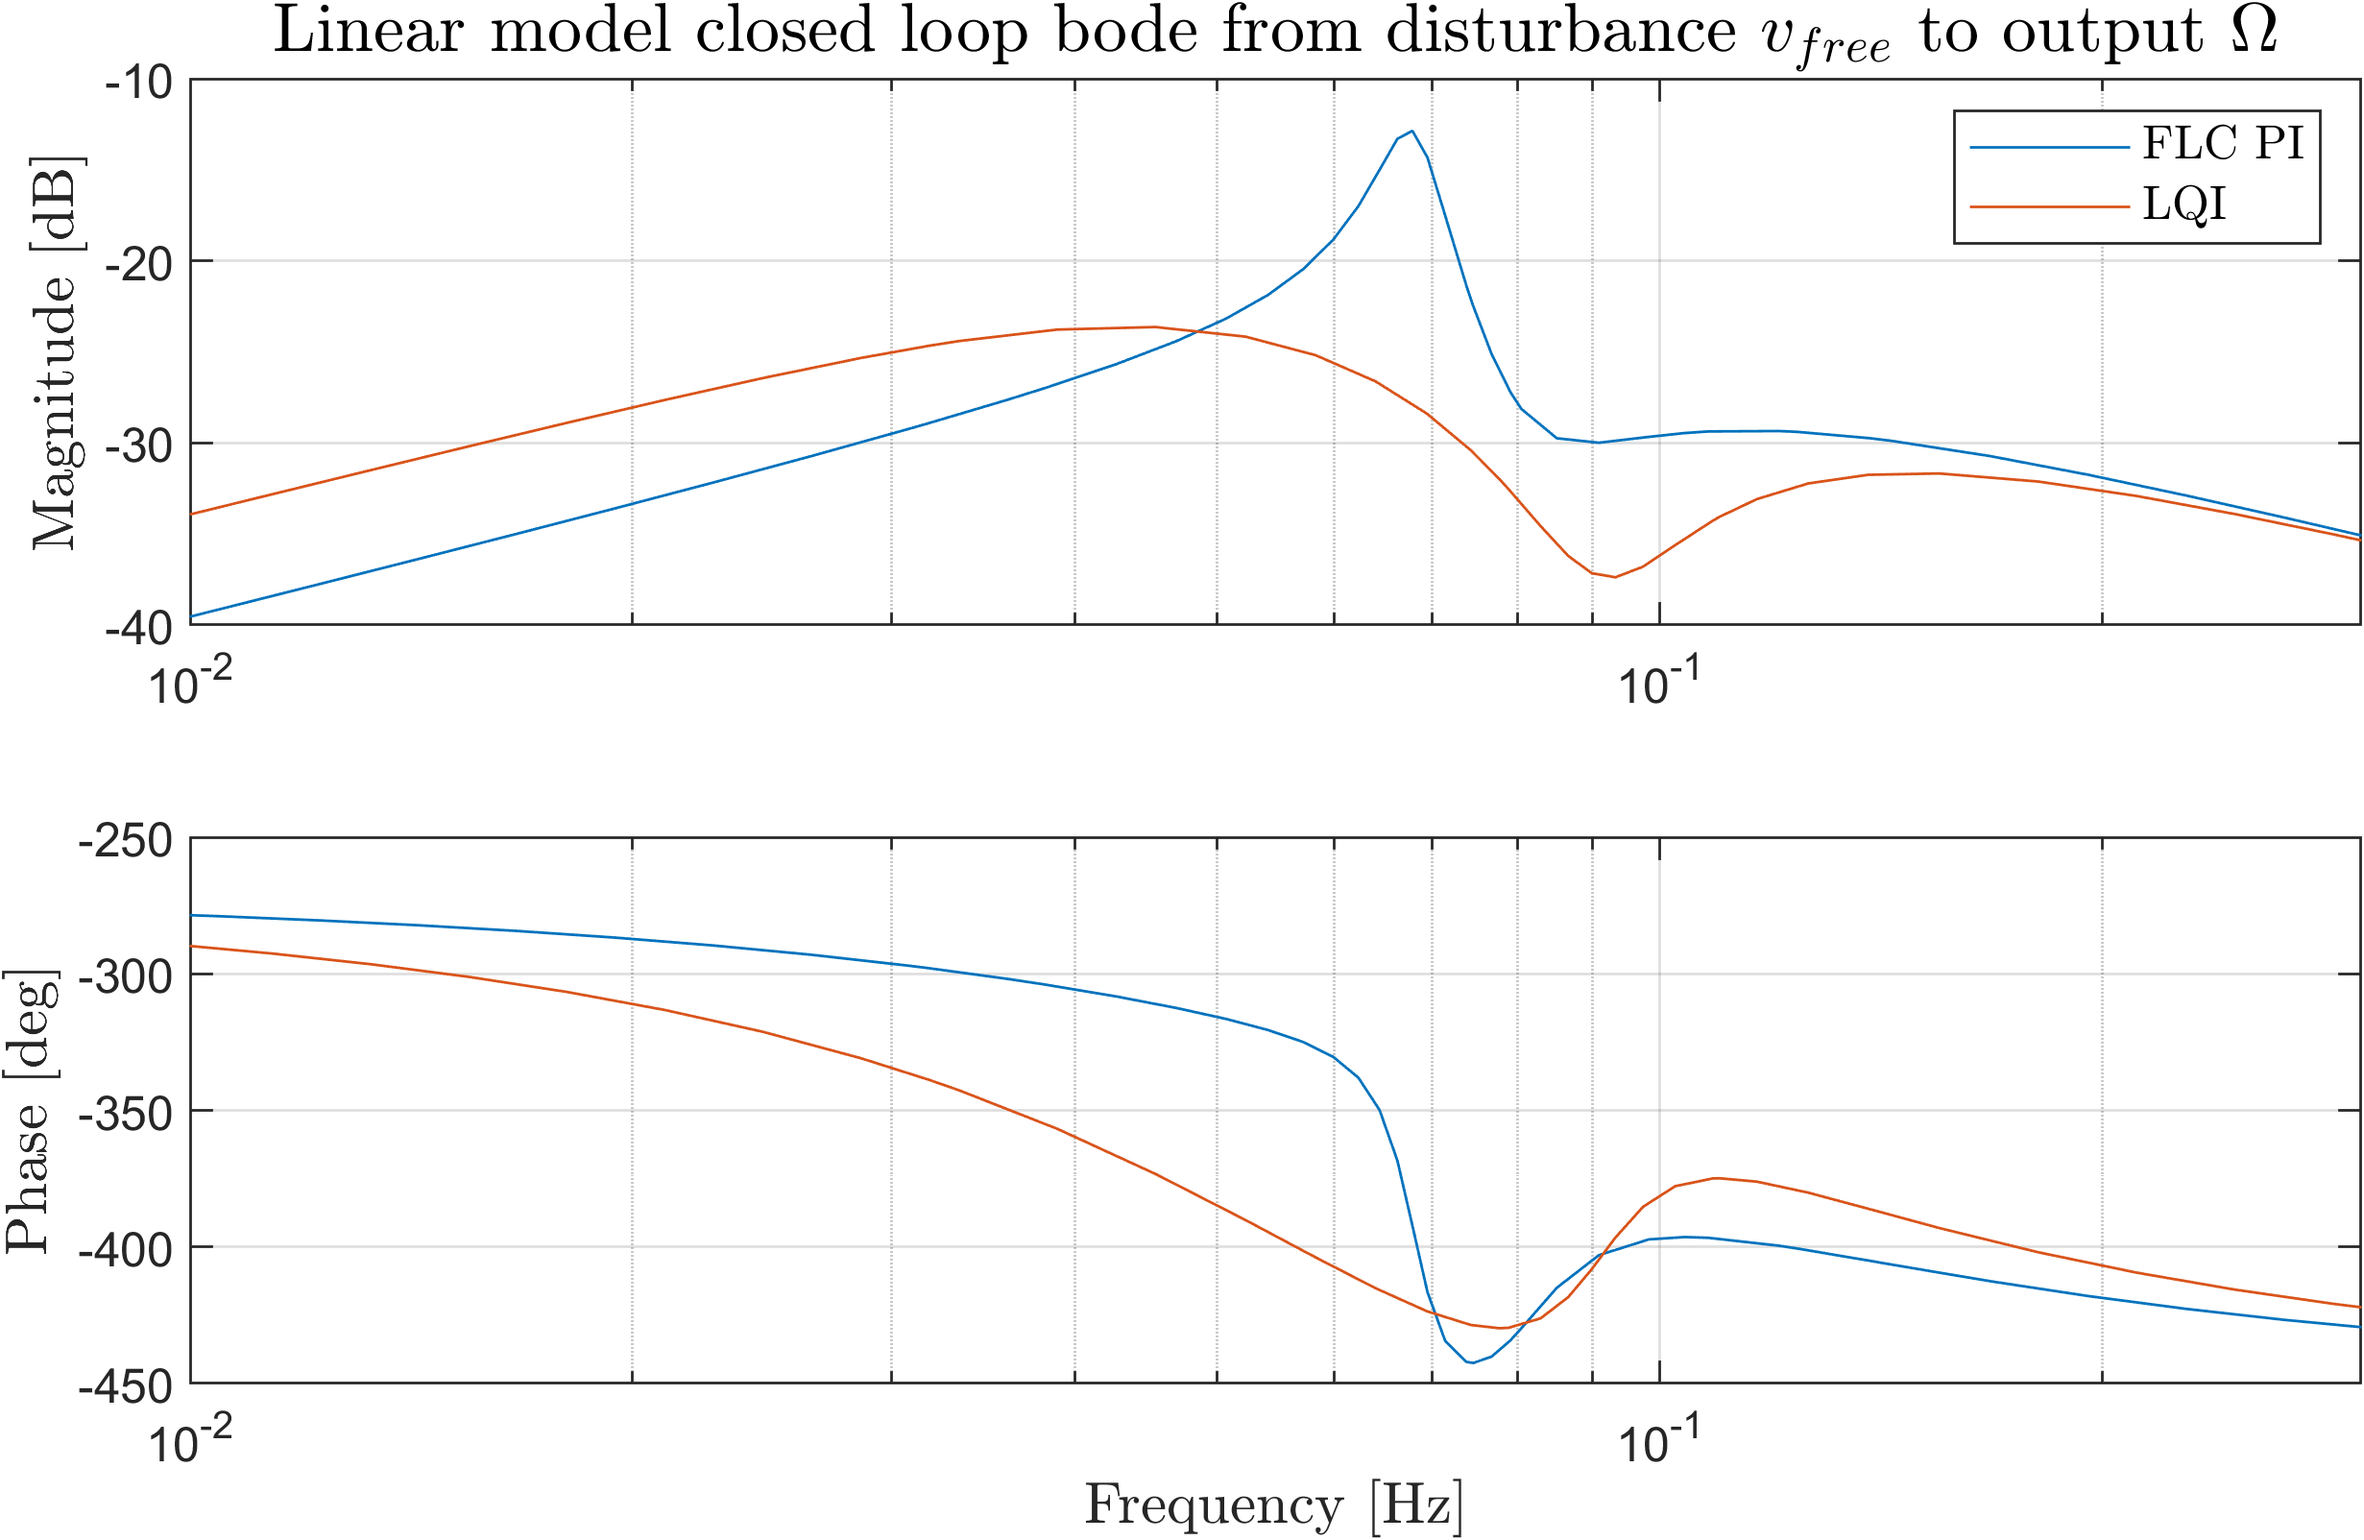
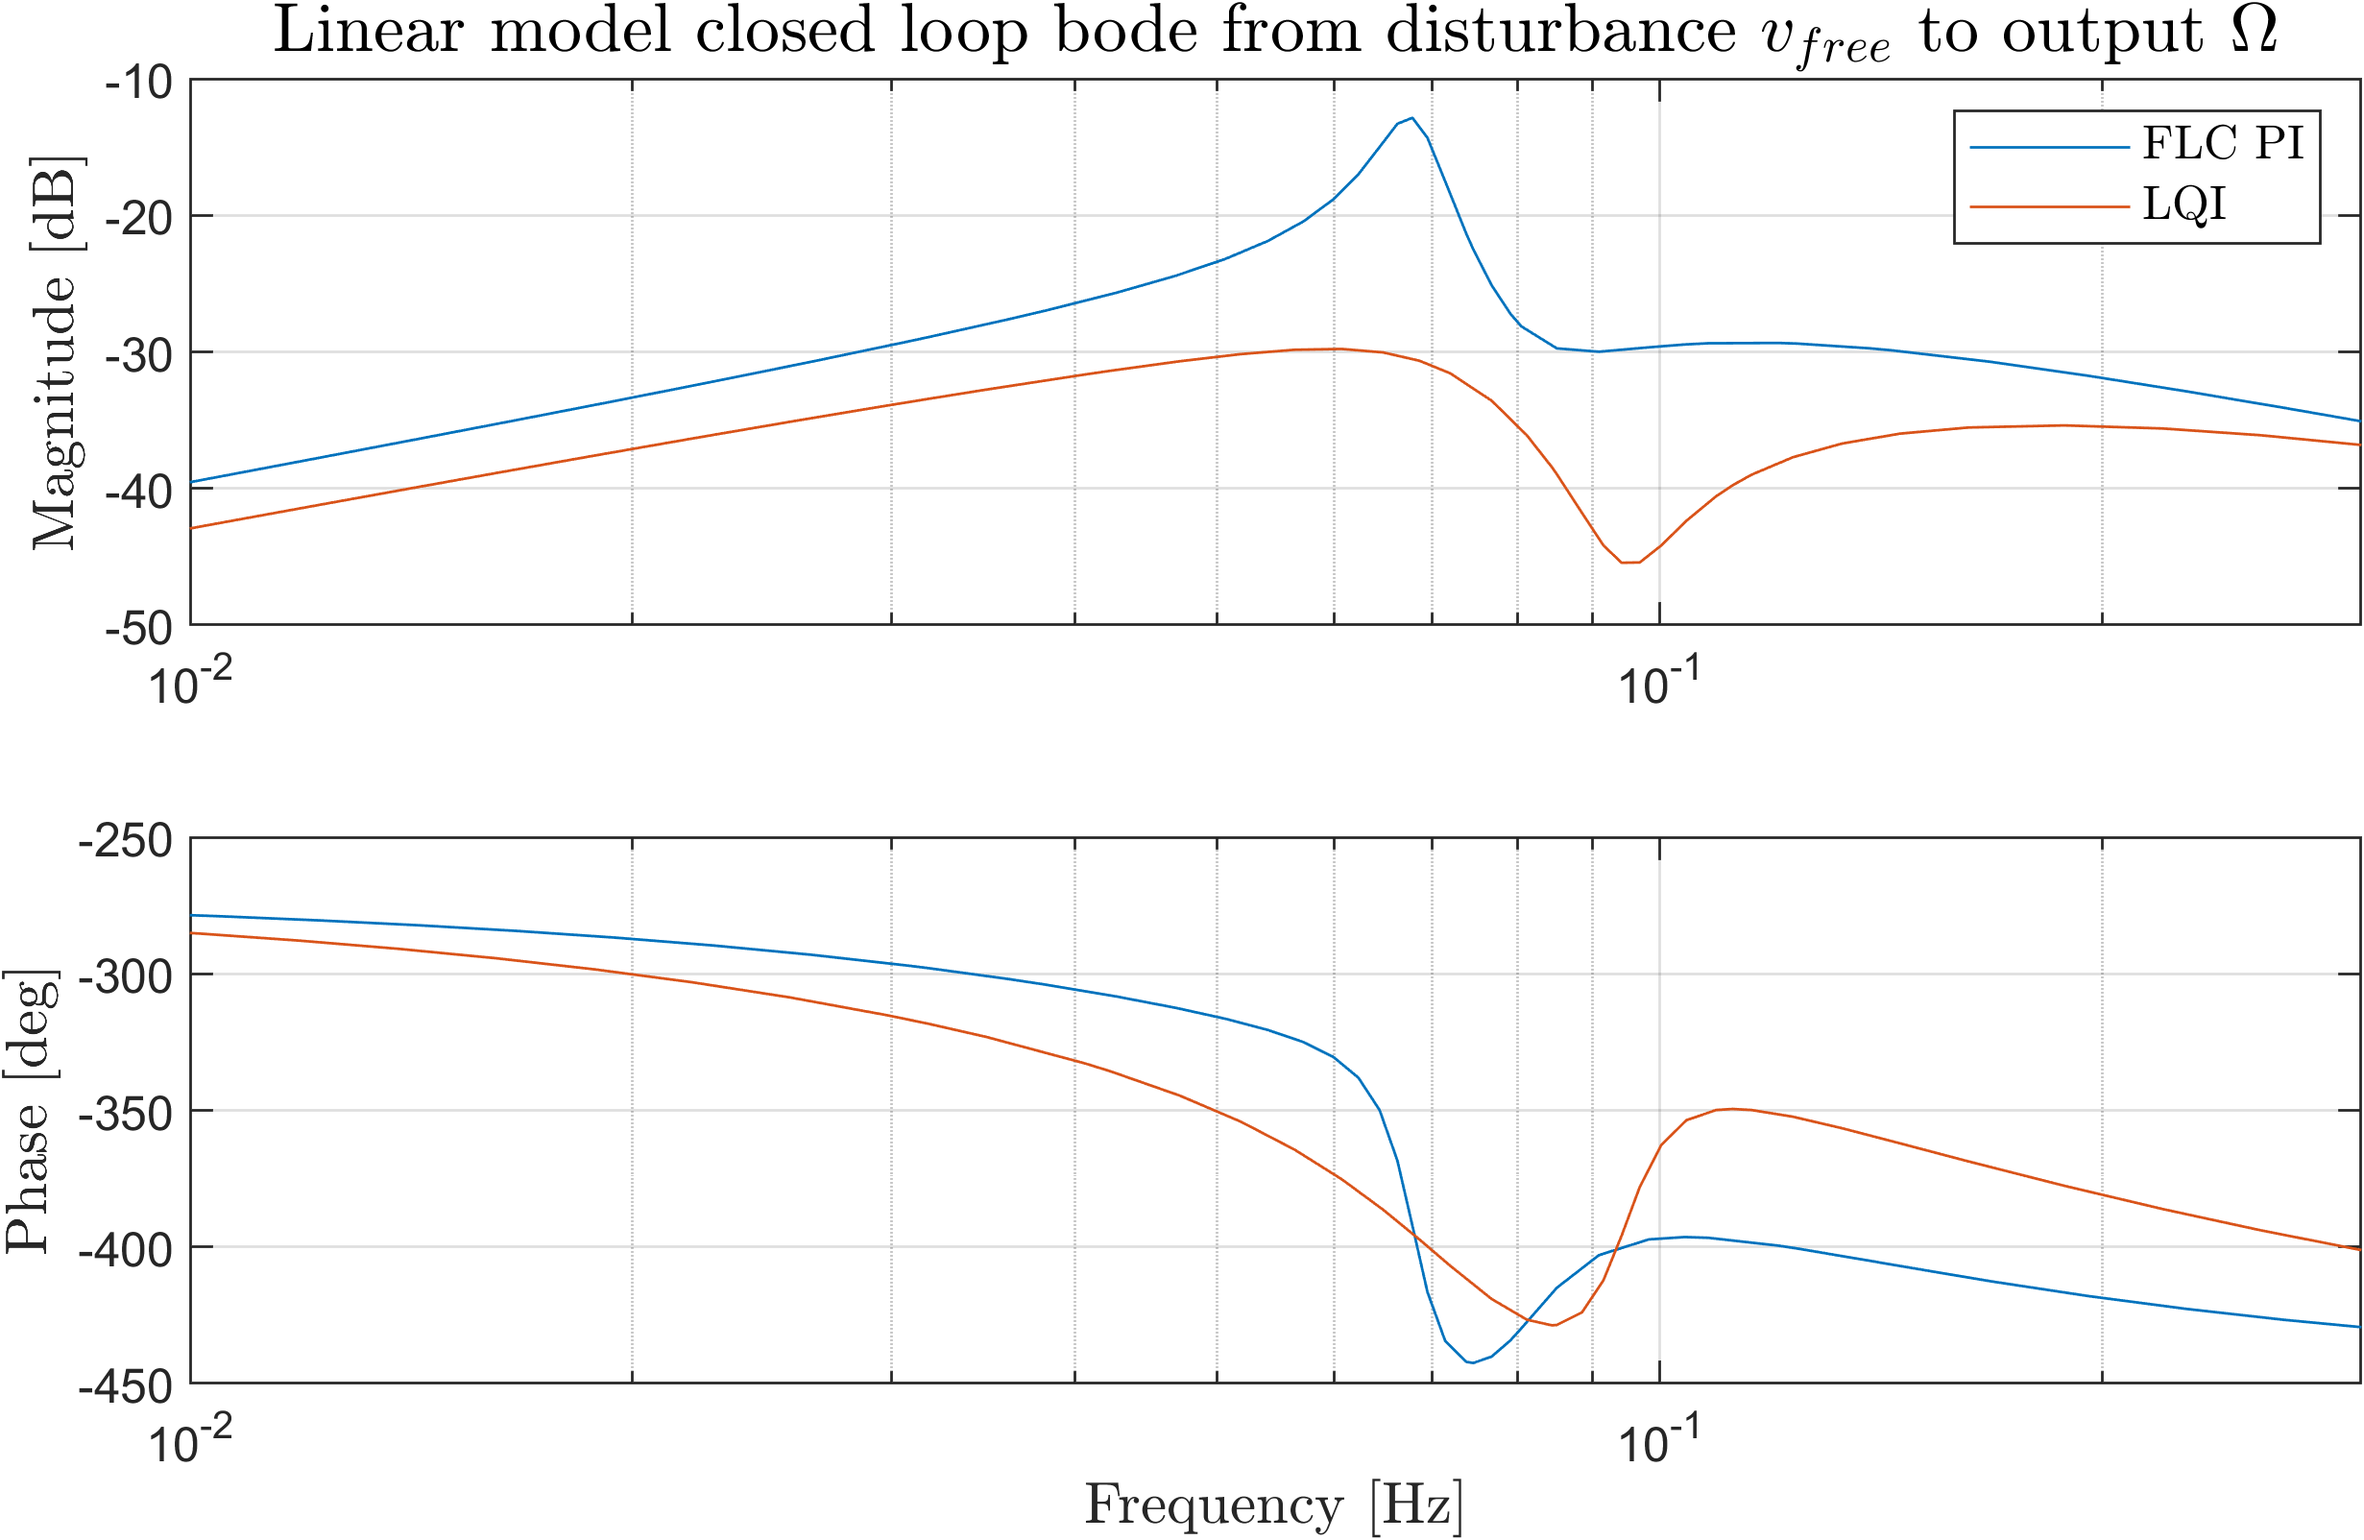
Some changes. Who knows what. A bit in several sections

diff --git a/Chapters/Modelling.tex b/Chapters/Modelling.tex
@@ -280,8 +280,7 @@ Outputs are defined from the available sensors and if the outputs are equal to t
 \end{figure}
 
 \subsubsection{Evaluation of model fit} \label{sec:lin_fit_eval}
-In the tower fore-aft movement component section in \cref{sec:comp_foreaft_mod} it was explained that a fitting process was necessary to find the parameters which gave the best linear fit. In the appendix in \cref{sec:app_mod_foreaft_fitting} all results from said process are presented and a few of the results are also shown here in \cref{fig:wref-vy_16}. In \cref{fig:sysid_wref-vy_16} the frequency response from VTS is seen when a test sine curve is applied to the pitch reference. The frequency response is plotted from the pitch reference to the surge direction velocity at nacelle height.
-
+In the tower fore-aft movement component section in \cref{sec:comp_foreaft_mod} it was explained that a fitting process was necessary to find the parameters which gave the best linear fit. In the appendix in \cref{sec:app_mod_foreaft_fitting} all results from said process are presented and a few of the results are also shown here in \cref{fig:wref-vy_16}. In \cref{fig:sysid_wref-vy_16} the frequency response from VTS is seen when a test sine is applied to the pitch reference. The frequency response is plotted from the pitch reference to the surge direction velocity at nacelle height. In \cref{fig:wtlin_wref-vy_16} a bode plot of the linear model is seen from the pitch reference to the surge direction velocity. Black lines are plotted in the linear model bode plot to aid in assessing the fit accuracy. The intersection of the lines are located at the peak of the magnitude of the VTS plot. In the phase plot they are located right before and after the sharp dip in the phase. It is observed that the magnitude of the linear model is around 5-6 dB lower than the VTS model. The phase is furthermore observed almost passing through the cross sections of the black lines. While the fit is not perfect is is deemed good enough to continue.
 \begin{figure*}[ht]
 	\centering
 	
@@ -323,21 +322,20 @@ The resulting linear state space system derived at the 16 m/s operating point be
 
 \smallskip
 \noindent with the output
-
 \begin{equation}\label{eq:y}
-	\begin{bmatrix} \omega \\ 
-					p_y \\
-					v_y \end{bmatrix} = 
-	\begin{bmatrix}	0  	& 0 	& 0  	& 365.9290	\\
-					0  	& 1  	& 0 	& 0			\\
-					0	& 0 	& 1 	& 0 \end{bmatrix}
+	\begin{bmatrix} p_y \\
+					v_y \\
+					\omega \end{bmatrix} = 
+	\begin{bmatrix}	0  	& 1 	& 0  	& 0	\\
+					0  	& 0  	& 1 	& 0			\\
+					0	& 0 	& 0 	& 365.93 \end{bmatrix}
 	\begin{bmatrix} \theta_{ref} \\
 					p_y \\ 
 					v_y \\
 					\Omega \end{bmatrix}
 \end{equation}
 
-In \cref{sec:linear_model} $ P_{ref} $ is observed to not affect any of the states. This is because a PLC controller component has not been included in the linear model.
+
 
 \subsubsection{System stability, controllability and observability}
 A linear system model with the FLC controller has now been derived at an operating point. Before moving further some key evaluations should be made. Firstly stability is checked and secondly controllability and observability.

diff --git a/Chapters/Documentation_tj02.tex b/Chapters/Documentation_tj02.tex
@@ -40,7 +40,7 @@ In \cref{fig:tj02_uykf_to_pi1} a plot containing the surge direction velocity, g
 
 As expected the generator speed is almost exactly 180 degrees phase shifted with regards to the surge velocity. When the turbine moves backwards a lower wind speed is observed by the rotor which results in less power being transferred from the wind to the rotor torque, yielding a lower rotor speed.
 
-The fore-aft oscillation period is observed to be around 30 seconds. When looking at the 16 m/s plot the power reference of 8 MW is tracked without issues due to the wind speeds being well inside the FLC region. While the wind speed observed by the rotor sees dips due to the fore-aft motion of the same size as the 14 m/s plot it does not enter PLC. The turbine is tracking the power reference just fine but the constant rotor speed reference of 400 rpm is tracked extremely poorly and sees oscillations with an amplitude of around 40 rpm.
+The fore-aft oscillation period is observed to be around 30 seconds. When looking at the 16 m/s plot the power reference of 8 MW is tracked without issues due to the wind speeds being well inside the FLC region. While the wind speed observed by the rotor sees dips due to the fore-aft motion of the same size as the 14 m/s plot it does not enter PLC. The turbine is tracking the power reference just fine but the constant rotor speed reference of 400 rpm is tracked extremely poorly and sees oscillations with an amplitude of around 40 rpm. Furthermore when observing the fore-aft velocity in the zoomed-in plot smaller oscillations are observed. The frequency can be derived to be around 0.45 Hz which corresponds well with the floating second eigenfrequency (the tower eigenfrequency). This shows that as the turbine is moving back and forth with the slow first eigenfrequency oscillation the tower furthermore oscillates with it's own frequency at the same time.
 \begin{figure}[ht]
 	\centering
 	\includegraphics[width=0.8\linewidth]{Graphics/TestResults/tj02/uykf_omgen_pi1.png}

diff --git a/Chapters/ControllerDesign.tex b/Chapters/ControllerDesign.tex
@@ -57,14 +57,17 @@ A linear quadratic integrator (LQI) controller is obtained when the integrator-a
 
 
 \subsection{The controller} \label{sec:ctrl_thecontroller}
-In the preceding sections the LQR and LQI controllers were explained and we are therefore ready to make the LQI controller. Firstly the FLC controller is removed from the system such that the input to the system is $ thRef $ in stead of $ wRef $. Stability and controllability are checked and the system is both stable and controllable. The \textit{lqr()} matlab function is used with the integrator-augmented system yielding the controller gains:
+In the preceding sections the LQR and LQI controllers were explained and we are therefore ready to make the LQI controller. Firstly the FLC controller is removed from the system such that the input to the system is the pitch reference $ thRef $ in stead of $ wRef $. Stability and controllability are checked and the system is both stable and controllable. The \textit{lqr()} matlab function is used with the integrator-augmented system yielding the controller gains:
 \begin{equation}\label{eq:lqi_K}
-	K = \begin{bmatrix} K_1 & K_2	\end{bmatrix}
+	K = \begin{bmatrix} -3.00 & -3.20 & -59.13 & -4.78 \end{bmatrix}
 \end{equation}
 when the $ R $ \text{and} $ Q $ matrices are defined as such:
 \begin{equation}\label{eq:lqi_Q_and_R}
-	Q = \begin{bmatrix} Q_11 	& 0 \\
-						0		& Q_22 \end{bmatrix} \;\; and \;\; 
-	R = \begin{bmatrix} R_11 	& 0 \\
-						0 		& R_22 \end{bmatrix}
+	Q =   \begin{bmatrix}
+		0.25 &  0 &  0 &  0 \cr
+		0 &  4 &  0 &  0 \cr
+		0 &  0 & 22.80 &  0 \cr
+		0 &  0 &  0 &  0.91
+	\end{bmatrix} \;\; and \;\; 
+	R = \begin{bmatrix} 0.04 \end{bmatrix}
 \end{equation}
